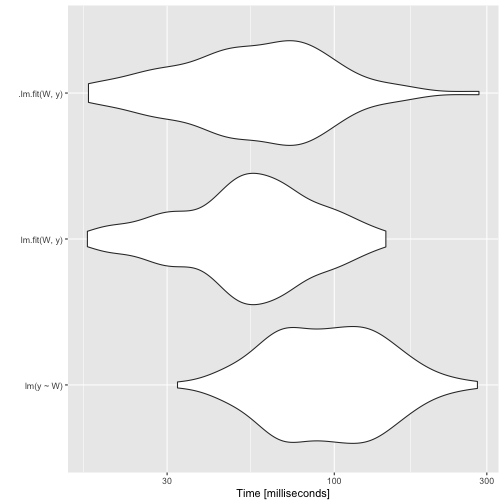
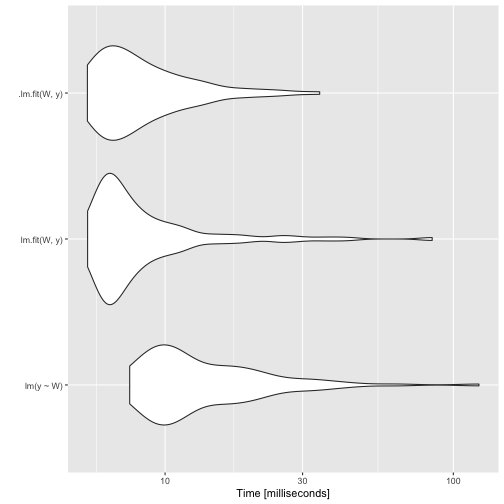
update

diff --git a/docs/lezioni/L04/LibroVsComputer.html b/docs/lezioni/L04/LibroVsComputer.html
@@ -90,12 +90,12 @@ ms
 
 ```
 Unit: milliseconds
-                                 expr       min        lq      mean    median
-     solve(t(X) %*% X) %*% t(X) %*% y 21.974572 124.98663 229.96662 195.27460
- solve(crossprod(X), crossprod(X, y))  6.593146  26.73335  60.15342  51.25928
+                                 expr      min        lq      mean    median
+     solve(t(X) %*% X) %*% t(X) %*% y 11.40596 13.272891 18.449127 15.980200
+ solve(crossprod(X), crossprod(X, y))  3.95804  4.192608  5.603482  4.710674
         uq      max neval cld
- 311.75524 674.7178   100   b
-  73.92241 343.1228   100  a 
+ 20.621285 53.97933   100   b
+  5.892089 16.08123   100  a 
 ```
 
 ---
@@ -210,8 +210,7 @@ b_{3} \\
 
 * Possiamo quindi scrivere 
 $$
-`\begin{aligned}
-X X^\mathsf{T} x = X^\mathsf{T} y\\
+\begin{aligned} X^\mathsf{T}X x = X^\mathsf{T} y\\
 L L^\mathsf{T} x = b\\
 L z = b
 \end{aligned}`
